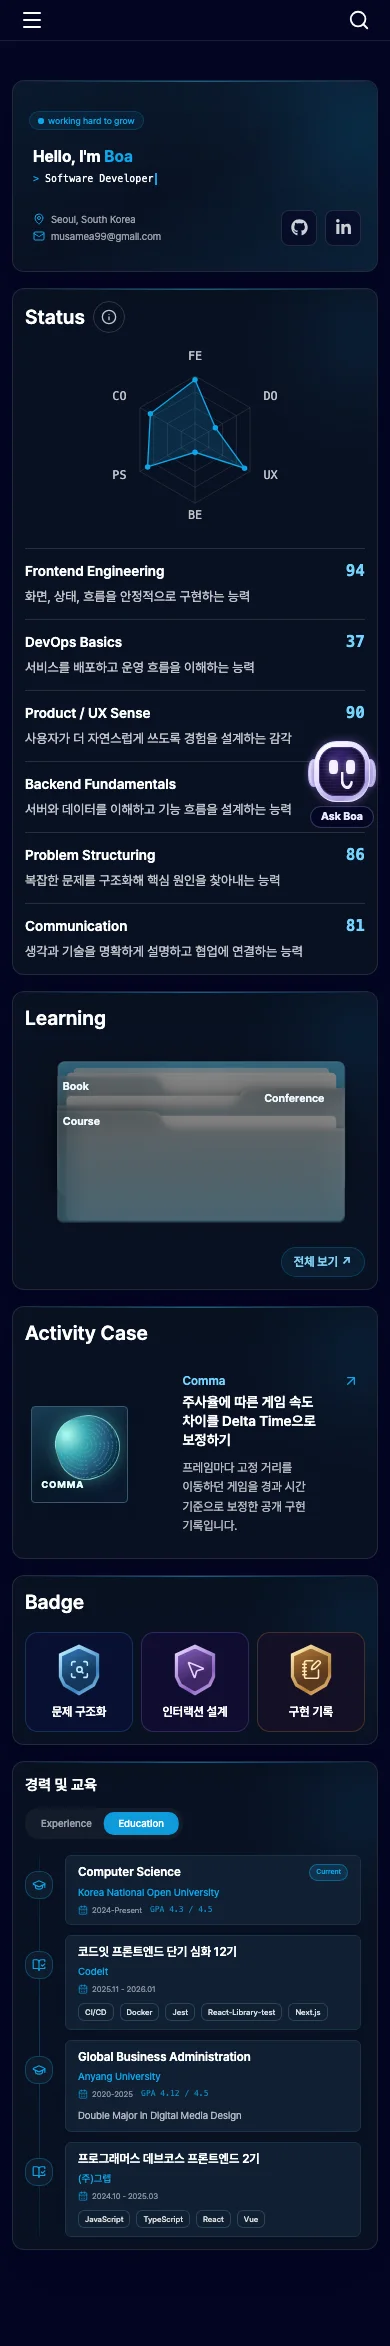
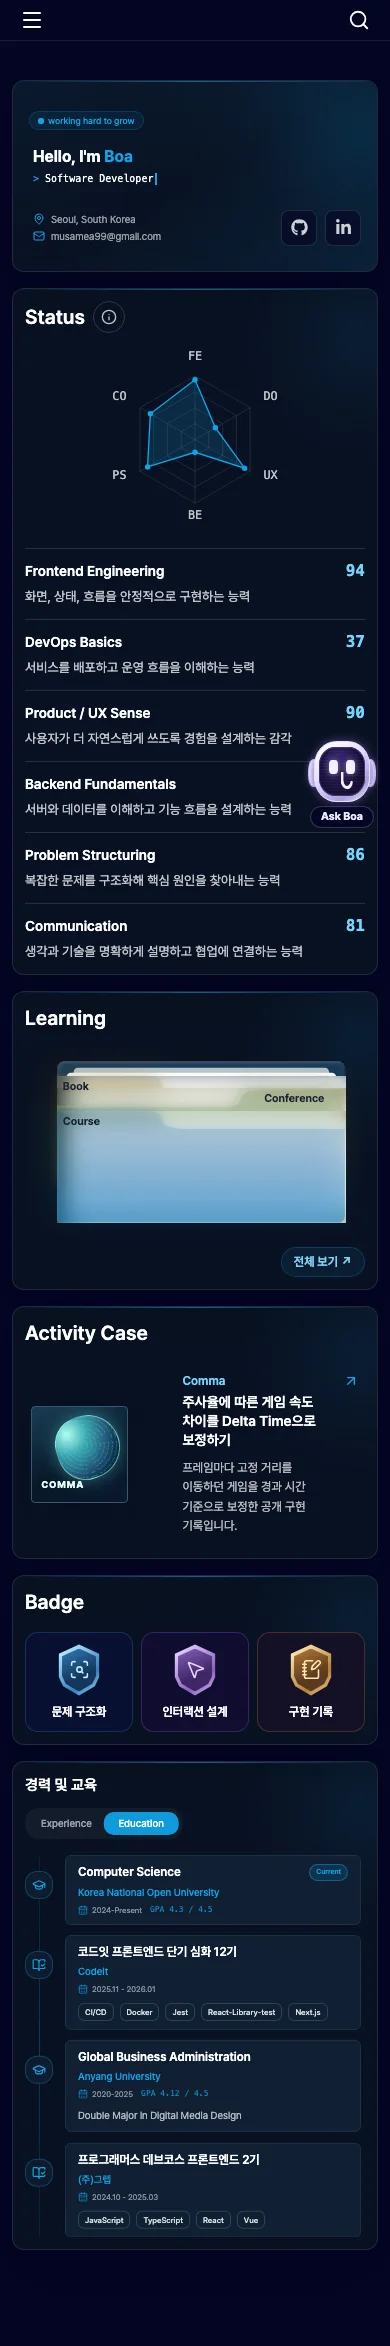
style: keep the supplied Learning folder colors

diff --git a/e2e/learning.spec.ts b/e2e/learning.spec.ts
@@ -55,6 +55,16 @@ test("the Resume folder indexes link to their Learning categories", async ({ pag
   await expect(art).toHaveAttribute("viewBox", "0 0 624 380");
   await expect(art.locator("foreignObject")).toHaveCount(5);
   await expect(art.locator("filter")).toHaveCount(4);
+  const gradientStops = await art.locator("linearGradient stop[stop-color]").evaluateAll((stops) =>
+    stops.map((stop) => {
+      const color = document.createElement("span").style;
+      color.color = stop.getAttribute("stop-color")!;
+      return { authored: color.color, rendered: getComputedStyle(stop).stopColor };
+    }),
+  );
+  expect(gradientStops.length).toBeGreaterThan(0);
+  expect(gradientStops.map(({ rendered }) => rendered)).toEqual(gradientStops.map(({ authored }) => authored));
+  await expect(art).toHaveCSS("filter", "none");
   const ratio = await art.evaluate((svg) => {
     const box = svg.getBoundingClientRect();
     return box.width / box.height;

diff --git a/src/app/(layout)/(shell)/resume/_components/cards/ResumeCollections.module.css b/src/app/(layout)/(shell)/resume/_components/cards/ResumeCollections.module.css
@@ -6,23 +6,10 @@
 }
 
 .folderArt {
-  --folder-glass: color-mix(in srgb, var(--color-folder-blue) 66%, #f1f5f9);
   display: block;
   width: 100%;
   height: auto;
   pointer-events: none;
-}
-
-.folderArt > g[data-figma-bg-blur-radius] > rect {
-  fill: var(--folder-glass);
-}
-
-.folderArt linearGradient > stop {
-  stop-color: var(--folder-glass);
-}
-
-:global(.dark) .folderArt {
-  filter: brightness(0.53);
 }
 
 .folderTrack {
@@ -30,10 +17,6 @@
   inset-block: 0;
   inset-inline: 9.48% 5.91%;
   color: #172033;
-}
-
-:global(.dark) .folderTrack {
-  color: var(--color-sky-50);
 }
 
 .folderIndex {
